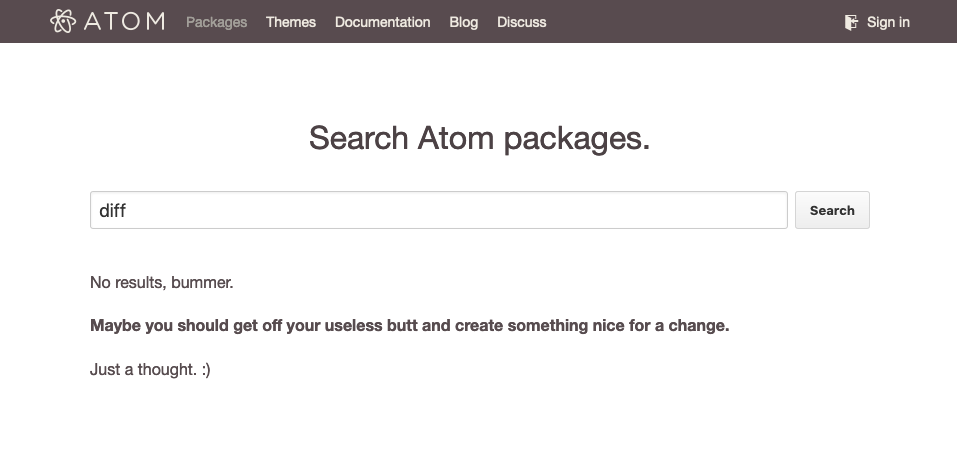
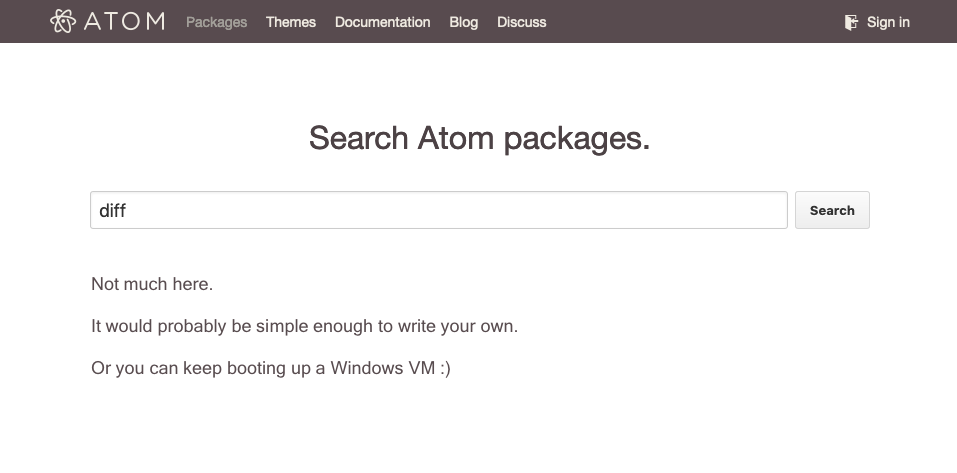
finish 1st blog post & tidy site for update

Changed region(s): [[0.0909, 0.6808, 0.7576, 0.7104], [0.0909, 0.7696, 0.4848, 0.7992], [0.0909, 0.5624, 0.2424, 0.6216]]

diff --git a/src/pages/about.jsx b/src/pages/about.jsx
@@ -9,6 +9,8 @@ const skillsList = [
   'Frontend Architect',
   'Certified Scrum Master',
   'Test Driven Development',
+  'Web Accessibility',
+  'Full-stack Engineer',
 ];
 const techList = [
   'React',
@@ -45,12 +47,12 @@ const About = ({ data }) => {
       <Seo title='About' />
       <h1>About</h1>
       <p>
-        I am a Software Developer who graduated in 2015 from the{' '}
+        I am a {data.site.siteMetadata.job} who graduated in 2015 from the{' '}
         <a href='https://www.unh.edu/'>University of New Hampshire</a> with a
         B.S. in Computer Science.
       </p>
       <p>
-        I live in Manchester, NH, and I have worked at{' '}
+        I live in New Hampshire, and I have worked at{' '}
         <a href='https://www.pega.com/'>Pegasystems</a> since 2015.
       </p>
       <h2>Skills</h2>
@@ -129,6 +131,7 @@ export const pageQuery = graphql`
     site {
       siteMetadata {
         title
+        job
       }
     }
     allMarkdownRemark(

diff --git a/src/components/Bio/index.jsx b/src/components/Bio/index.jsx
@@ -22,12 +22,13 @@ const Bio = () => {
             github
             linkedin
           }
+          job
         }
       }
     }
   `);
 
-  const { author, social } = data.site.siteMetadata;
+  const { author, social, job } = data.site.siteMetadata;
 
   return (
     <>
@@ -48,8 +49,8 @@ const Bio = () => {
           height={180}
         />
         <div>
-          <h2>Hello, I&apos;m {author}.</h2>
-          <p>I live and work in New Hampshire as a Software Developer.</p>
+          <h2>I&apos;m {author}.</h2>
+          <p>I live and work in New Hampshire as a {job}.</p>
           <a href='mailto:&#099;&#111;&#110;&#116;&#097;&#099;&#116;&#064;&#109;&#105;&#107;&#101;&#117;&#112;&#046;&#099;&#104;&#117;&#114;&#099;&#104;'>
             &#099;&#111;&#110;&#116;&#097;&#099;&#116;&#064;&#109;&#105;&#107;&#101;&#117;&#112;&#046;&#099;&#104;&#117;&#114;&#099;&#104;
           </a>

diff --git a/src/pages/blog.jsx b/src/pages/blog.jsx
@@ -1,6 +1,5 @@
 import { Link, graphql } from 'gatsby';
 
-import Bio from '../components/Bio';
 import SEO from '../components/seo';
 import { rhythm } from '../utils/typography';
 
@@ -22,9 +21,7 @@ const Blog = ({ data }) => {
                   marginBottom: rhythm(1 / 4),
                 }}
               >
-                <Link style={{ boxShadow: 'none' }} to={node.fields.slug}>
-                  {title}
-                </Link>
+                <Link to={node.fields.slug}>{title}</Link>
               </h3>
               <small>{node.frontmatter.date}</small>
             </header>
@@ -38,8 +35,6 @@ const Blog = ({ data }) => {
           </article>
         );
       })}
-      <hr />
-      <Bio />
     </>
   );
 };

diff --git a/gatsby-ssr.jsx b/gatsby-ssr.jsx
@@ -8,9 +8,18 @@ export const wrapPageElement = ({ element, props }) => (
   <PageLayout {...props}>{element}</PageLayout>
 );
 
-export const onRenderBody = ({ setHtmlAttributes }) => {
+export const onRenderBody = ({ setHtmlAttributes, setPostBodyComponents }) => {
   // Initialize to dark theme - less of a jarring flash
   setHtmlAttributes({
     'data-theme': 'dark',
   });
+  // Cloudflare Web Analytics
+  setPostBodyComponents([
+    <script
+      key='cloudflare-web-analytics'
+      defer
+      src='https://static.cloudflareinsights.com/beacon.min.js'
+      data-cf-beacon='{"token": "04a0c8d125e242ab8366140a4f7d3b66"}'
+    ></script>,
+  ]);
 };

diff --git a/src/styles/variables.module.scss b/src/styles/variables.module.scss
@@ -16,7 +16,7 @@ $sunny: #fffa75;
   --mun-color: #{$sunny};
   --mun-spot-color: #{$sunny};
 
-  --theme-toggle-background-color: #{darken($greige, 10%)};
+  --theme-toggle-background-color: #{darken($whitesque, 30%)};
   --theme-toggle-foreground-color: #{$whitesque};
   --theme-toggle-text-color: #{$blackish};
   --theme-toggle-slider-color: #{$whitesque};
@@ -34,6 +34,7 @@ html[data-theme='dark'] {
   --mun-color: #{$whitesque};
   --mun-spot-color: #{$greige};
 
+  --theme-toggle-background-color: #{lighten($blackish, 30%)};
   --theme-toggle-text-color: #{$whitesque};
   --theme-toggle-slider-color: #{$blackish};
 }

diff --git a/src/components/PageLayout/style.module.scss b/src/components/PageLayout/style.module.scss
@@ -2,7 +2,6 @@
   left: 0;
   right: 0;
   opacity: 0;
-  transition: opacity 0.25s;
   margin-left: auto;
   margin-right: auto;
 }
@@ -10,6 +9,7 @@
 :global(.page-enter),
 :global(.page-enter-active),
 :global(.page-enter-done) {
+  transition: opacity 0.25s;
   opacity: 1;
 }
 

diff --git a/gatsby-config.js b/gatsby-config.js
@@ -5,6 +5,7 @@ module.exports = {
   siteMetadata: {
     title: 'Mike Upchurch',
     author: 'Mike Upchurch',
+    job: 'Senior Software Developer',
     description: 'A personal website/blog for Mike Upchurch.',
     siteUrl: 'https://www.mikeup.church',
     social: {

diff --git a/content/blog/top-atom-package/index.md b/content/blog/top-atom-package/index.md
@@ -1,79 +1,80 @@
 ---
-title: How I fumbled my way to a top Atom package
-date: 2020-03-05T12:12:03.284Z
+title: "split-diff: How I fumbled my way to a top Atom package"
+date: 2023-05-20T12:12:03.284Z
 ---
 
-![](./spacey-meme.jpg)
+![](./spacey-meme.png)
 
-I know the [Atom text editor](https://atom.io) isn't the new hotness right now (I've long since switched to [VSCode](https://code.visualstudio.com/)), but I've just cracked into writing blog posts, and I'd like to share my rather accidental rise to open source "stardom". Stardom, here, is measured in Github stars, of course.
+This post is probably long overdue, but at the same time, it's not, because I've never written a blog post before. Nonetheless, I'd like to share my rather accidental rise to OSS - Open Source _Stardom_. A metric that is, of course, measured in Github stars.
 
-I first encountered Atom as an innocent new hire at my first full-time job. It was a frontend web application development position, which I only had minimal experience in from one of my internships. Anyway, I'm still working there nearly 5 years later, so I guess you could say it went alright.
+[VSCode](https://code.visualstudio.com/) usurped the [Atom text editor](https://atom.io) a while ago now, but there was a long point in time where **if you wanted to compare two files, you had to go through me**. Or, I don't know, use another tool or something, I guess.
 
-Within a few months of starting, I was pair programming with a coworker, and when he opened up his text editor, my jaw hit the floor.
+## Up and Atom
+I was introduced to Atom at my first full-time job. Within a few months of starting, I was pair programming with my team's Tech Lead, and he showed me this new text editor he had set up to his liking.
 
-> Yeah man, look at these open source packages I installed to improve my workflow. I even wrote a couple of my own JS snippets to change some functionality for my usage. _AND_ I can style whatever I want to my liking with CSS.
+> I installed these open source packages to improve my workflow, I can write my own JS snippets to do anything, _AND_ I can style any part of the UI with CSS. - Mr. Tech Lead, 2015
 
-Okay, what? I can use what I've learned so far at my job to customize the way my text editor looks and behaves? _Sold._
+I could use skills I had already acquired to customize my work environment. Sold.
 
-I had never really paid much attention to my text editor before. I had generally just rolled with whatever opened when I double-clicked a file. I shuddered while writing that sentence — _I thought blog posts were supposed to make me seem cool._
+Immediately, I changed themes and tried out packages and created JS snippets and wrote CSS. I could bend reality to my will - [my power knew no bounds](https://github.com/mupchrch/outline-selection#outline-selection---). Yes, that was an outline/boundary pun about another package I wrote.
 
-## Let's see what Atom can do
+After about a month, I realized a major issue in my workflow. I use MacOS at work. In order to compare two files, I would **boot up a Windows VM** just so I could use WinMerge. Kind of like taking a flight because I wanted some peanuts. This realization spurred me to try every single Atom package that dared to mention the words `compare`, `diff`, or `merge`. Nothing quite fit the bill.
 
-Immediately, I changed themes and tried out packages and created JS snippets and wrote CSS (I mean, as much as anyone really _knows_ how to write CSS). This new world was fantastic. Until it wasn't.
-
-After about a month, I realized a major issue in my workflow. I use MacOS at work. In order to compare two files, I would **BOOT UP MY ENTIRE WINDOWS VM** just so I could use WinMerge. In reflection, I'm baffled that this was a solution I tried even once, let alone for a _month._ This spurred me to go on a rampage trying out every single package that dared to utter the words `compare`, `diff`, or `merge`.
-
-![A totally not doctored photo of what I found on my search for a side-by-side comparison package.](./package-search.png)
-
-Below, you'll find reviews of each package from the perspective of an inexperienced simpleton:
-
-- One offered diffing changes inline — Gross, I could barely understand when they were side-by-side, now you're going to bring in **a whole different axis**?
-- One just highlighted changed line numbers — Okay, what do you expect me to do? **BOOT UP MY ENTIRE WINDOWS VM** to see what changed?
-- Wait! One showed me side-by-side changes! — But in a popup... that I couldn't edit ☹
+![My very real search for a side-by-side comparison package.](./package-search.png)
 
 ## Hacking the "hackable text editor"
 
-I was floored. How could what I want not exist? (For one, Atom had just exited Beta.) There had always been a package for what I needed. I went into research mode. I found a [StackOverflow post](https://stackoverflow.com/a/1313218), which pointed me to a research paper titled [An O(ND) Difference Algorithm and its Variations](http://www.xmailserver.org/diff2.pdf). Nah. I'm good. I can barely vertically align text in a `<div>`. This is getting a little too college right now.
+I was floored. How could this free product that just exited Beta not provide exactly what I need? No matter, it should be easy enough to build. I went into research mode. I found a [StackOverflow post](https://stackoverflow.com/a/1313218), which pointed me to a research paper titled [An O(ND) Difference Algorithm and its Variations](http://www.xmailserver.org/diff2.pdf). My eyes glazed over. This was out of my wheelhouse - I could barely vertically align text in a `<div>`.
 
-Wait a second. I've seen websites where you can paste in the contents of two files that you want to compare. How do they do it? ...What is [jsdiff](https://github.com/kpdecker/jsdiff)? _Some poor soul already did the dirty work!_ 🎉 (Seriously, a _huge_ shoutout to [Kevin Decker](https://github.com/kpdecker).)
+But wait, I've seen websites where you can paste in the contents of two files that you want to compare. How do they do it? Hold on, what is [jsdiff](https://github.com/kpdecker/jsdiff)? _Some poor soul already did the dirty work!_ 🎉
 
-I followed the documentation and slapped together an initial "Hello, World" package. At the time, packages were built using [CoffeeScript](https://coffeescript.org/), so I stumbled a bit in the beginning. [Things started slow](https://github.com/mupchrch/split-diff/commit/59b0676dfa5b53d900ec8fde1c6b833941ffd8c5), but I persevered:
+I followed Atom's documentation and slapped together a very bare-bones package. At that time, packages were built using [CoffeeScript](https://coffeescript.org/), so I stumbled a bit in the beginning. To be honest, I never fully boarded the CoffeeScript train (and I eventually refactored much of the supporting logic to JavaScript files), but I can appreciate its successful influence on [ES6](https://www.w3schools.com/js/js_es6.asp).
+
+Regarding my new package, [things started out slow](https://github.com/mupchrch/split-diff/commit/59b0676dfa5b53d900ec8fde1c6b833941ffd8c5), but I persevered:
 
 ![The first commit to show signs of life.](./important-commit.png)
 
-Cool, I accomplished what I set out to do... Hold on, everything gets out of whack if the number of lines added doesn't equal the number of lines removed! I needed some way to insert "fake" lines, so related differences remained properly aligned. The only issue was, at the time, there was _zero_ support for what is now called "[block decorations](https://blog.atom.io/2016/02/03/introducing-block-decorations.html)".
+Cool, I'm done. That was quick and easy... Except everything gets misaligned if the number of lines added doesn't equal the number of lines removed! I needed some way to insert "fake lines", so related differences remained properly aligned. The only issue was, at the time, there was _zero_ support for what eventually became "block decorations".
 
 ![Something isn't quite lining up here...](./no-block-decorations.png)
 
-From the block decorations announcement post:
+From the eventual block decorations announcement post:
 
 > Users and package authors have come up with hacks that circumvent the problem by monkey-patching DisplayBuffer and the way it constructs tokenized lines.
 
 Guilty 🙋♂
 
-After 3 days of bashing my head against my keyboard, I finally did it. Just kidding, I took some [slight influence](https://github.com/mupchrch/split-diff/blob/9e71b0c53811460d041fa71ab9e5db8820ad61e0/lib/build-lines-helper.js#L5) from a package that Facebook released called Nuclide. I know what you're thinking, I'm basically the Robin Hood of side-by-side file comparison. It gets better.
+After 3 days of bashing my head against my keyboard, I finally did it. Just kidding, I took some [~slight~ heavy influence](https://github.com/mupchrch/split-diff/blob/9e71b0c53811460d041fa71ab9e5db8820ad61e0/lib/build-lines-helper.js#L5) from a package that Facebook released called Nuclide. Consider me the Robin Hood of side-by-side file comparison.
 
-I also realized how massive of a pain it is to have to scroll both editors separately. Again, I took a [small bit of influence](https://github.com/mupchrch/split-diff/blob/e24b345715b6af26536af59864182c5944a809b8/lib/sync-scroll.js#L5) from Nuclide, and now the editors scroll positions were in sync at all times.
+I also realized how massive of a pain it is to have to scroll both editors separately. Again, [I ~stole~ borrowed a file](https://github.com/mupchrch/split-diff/blob/e24b345715b6af26536af59864182c5944a809b8/lib/sync-scroll.js#L5) from Nuclide, and now the editors' scroll positions were in sync at all times.
 
 ![Block decorations are working, as is synchronized scrolling!](./sync-scroll.gif)
 
-## Ship it
+## Hello, World!
 
-After adding the ability to recalculate the diff following any changes, I named this thing [split-diff](https://atom.io/packages/split-diff) and shipped v0.1.0. 🚢
+I named this thing [split-diff](https://github.com/mupchrch/split-diff#split-diff---) and shipped v0.1.0.
 
-Shortly thereafter, myself and [at least one person in my growing userbase](https://github.com/mupchrch/split-diff/issues/6#issuecomment-211070405) ran into a problem. Diffing large files _completely froze Atom_.
+I couldn't believe the kind of traction it gained. Something I had created for myself, slowly but surely started racking up a not insignificant amount of downloads. 1,000... 10,000... 100,000... 500,000... and eventually near the end of Atom's life - **1,000,000 downloads** 😱
 
-I did some research (the [Atom API documentation](https://flight-manual.atom.io/api) was, and is, fantastic) and found my solution: `BufferedNodeProcess`. This is pretty much what it sounds like — I could run arbitrary JavaScript in a separate Node.js process, write its output to the buffer, and parse it back in the main thread. This freed up Atom to continue actually functioning while I computed the diff results asynchronously. _More importantly_, I could display a loading indicator if the diff was taking longer than 1 second. _MORE importantly_, the user now had the choice to be able to cancel out of this painfully slow package, and even proceed to uninstall it!
+However, let's not celebrate too soon. Far before all that, myself, and [at least one person in my growing userbase](https://github.com/mupchrch/split-diff/issues/6#issuecomment-211070405), had run into a problem: Diffing large files **completely froze Atom**.
 
-Addressing the UI lockup was what I consider the last interesting issue that I fixed. I went on to add quite a few more features:
+I did some research (the Atom API documentation was fantastic) and found my solution: `BufferedNodeProcess`. This is pretty much what it sounds like — I could run arbitrary JavaScript in a separate Node.js process, write its output to the buffer, and parse it back in the main thread. This freed up Atom to continue actually functioning while I computed the diff results asynchronously. _More importantly_, I could display a loading indicator if the diff was taking longer than 1 second. _MORE importantly_, the user now had the choice to be able to cancel out of this painfully slow package, and even proceed to uninstall it!
+
+## Goodbye, World!
+
+Addressing the UI lockup was what I consider the last interesting issue that I fixed. Although I did go on to add quite a few more features:
 - Moving to the next/previous diff "chunk"
 - Quickly moving a "chunk" of changes from one editor to the other
-- A bottom bar in the UI to show the number of differences and also provide easy buttons for the previous features
+- A bottom bar in the UI to show the number of differences and also provide easy buttons for the aforementioned features
 - Highlighting which words changed between each line
 - Diffing with the previous git commit (if available)
 
 ![Using the UI bar to move between diffs and copy one to the other editor, then demonstrating live editing.](./additional-features.gif)
 
-Looking back with my current experience level, I would have focused even further on performance. No dig at `jsdiff`, but it might have been a better idea to call a C/C++ module using the `BufferedProcess` API. I also always wanted to just use the info from `git diff` if it was available, but never had the time or ambition to add another fork in the code.
+Looking back with my current experience level, there was still a lot of performance to be gained. No dig at `jsdiff`, but it might have been a better idea to call a C/C++ module using the `BufferedProcess` API. I also always wanted to just use the info from `git diff` if it was available, but never had the time or ambition to add another fork in the code.
 
-Unfortunately, I've long since been in maintenance mode on split-diff (apparently, I had ["more important" things to do](https://www.instagram.com/monthlymammals/)). I've had fun, failure, and feature creep, but I think it all resulted in a package with a really solid user experience. I definitely learned how to say "no, that's not in scope" for this tool. It's okay to have an accomplishable goal and stick to it — you don't have to build a Swiss Army knife.
+I'll end this post by sharing the best moment to come out of `split-diff`. At work, we had started hearing rumors that my company was thinking of creating an internal Atom package to help our frontend engineers with some development pain points. My team's Tech Lead (the same one who had introduced me to Atom), was included on a demo of the new package. He noticed the package could compare files... and **it installed `split-diff` to do it**.
+
+> Wait you guys know Mike made that package, right?!
+
+I had poured countless hours into fixing bugs and creating features. I never expected any money or notoriety - I was doing it for free and for fun. Strangely, I was even yelled when things broke. But as it turns out, it literally ended up paying off. That coincidence at work helped advance my career on more than one occasion.
